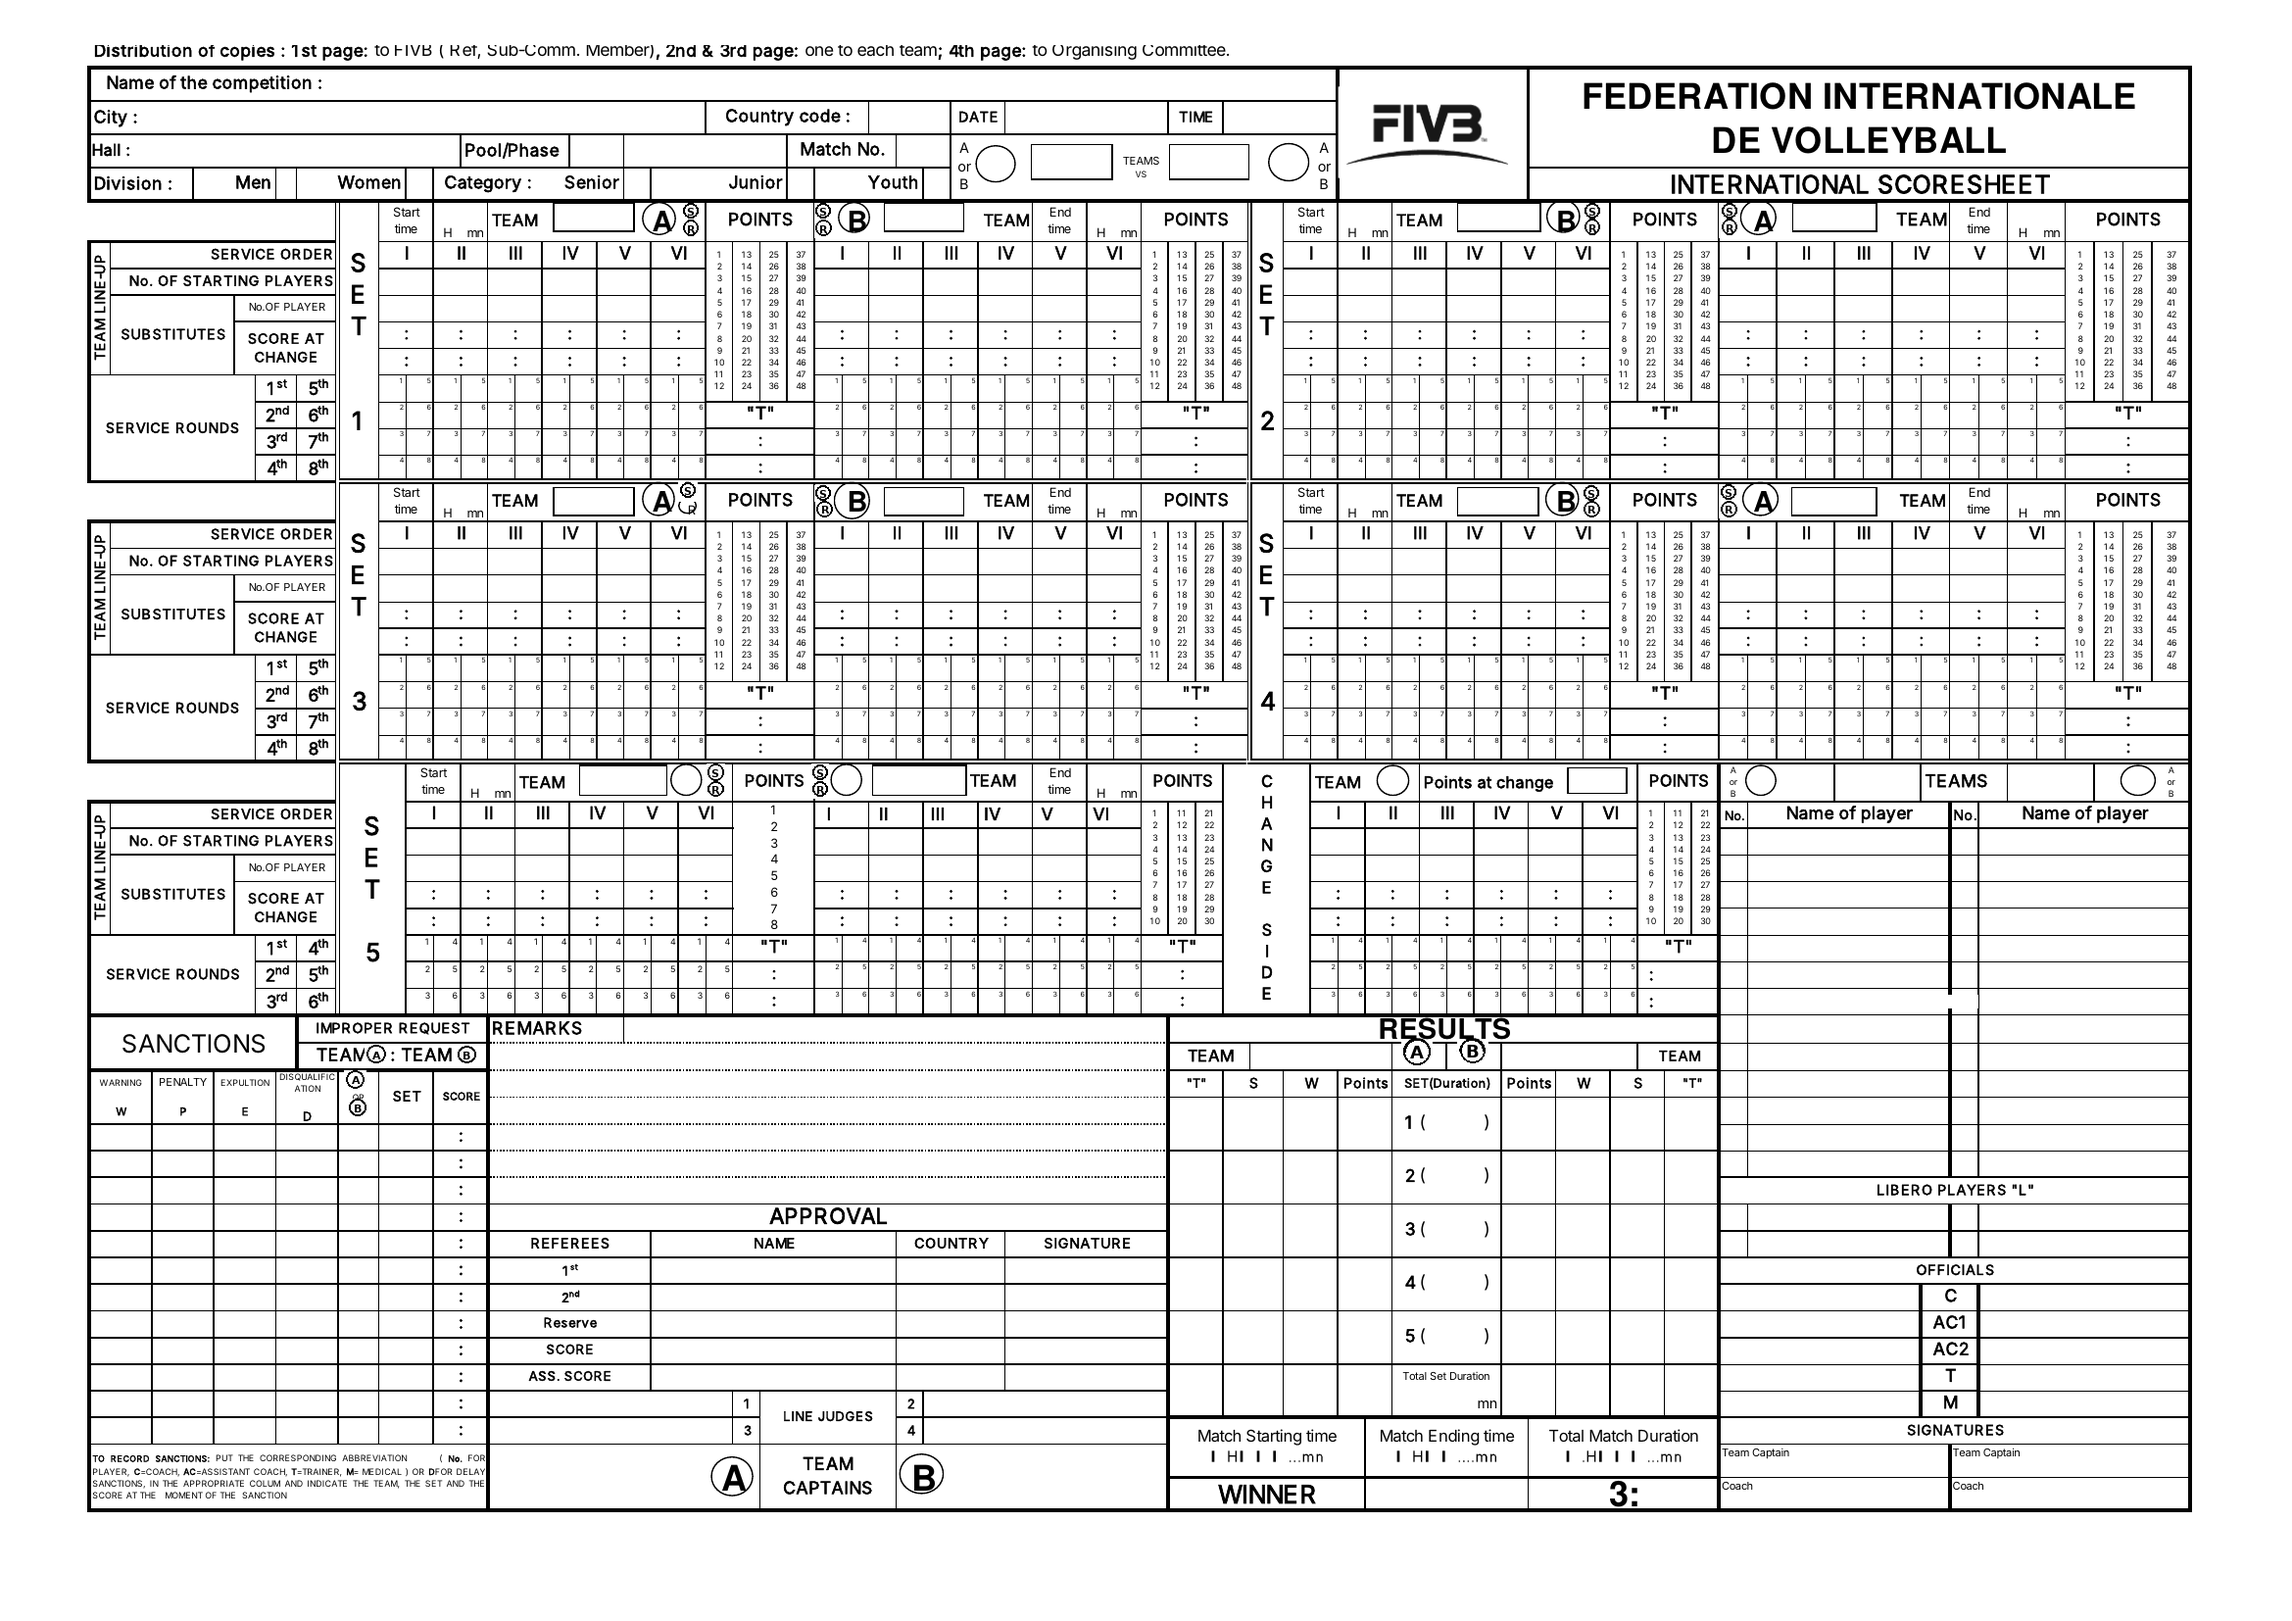
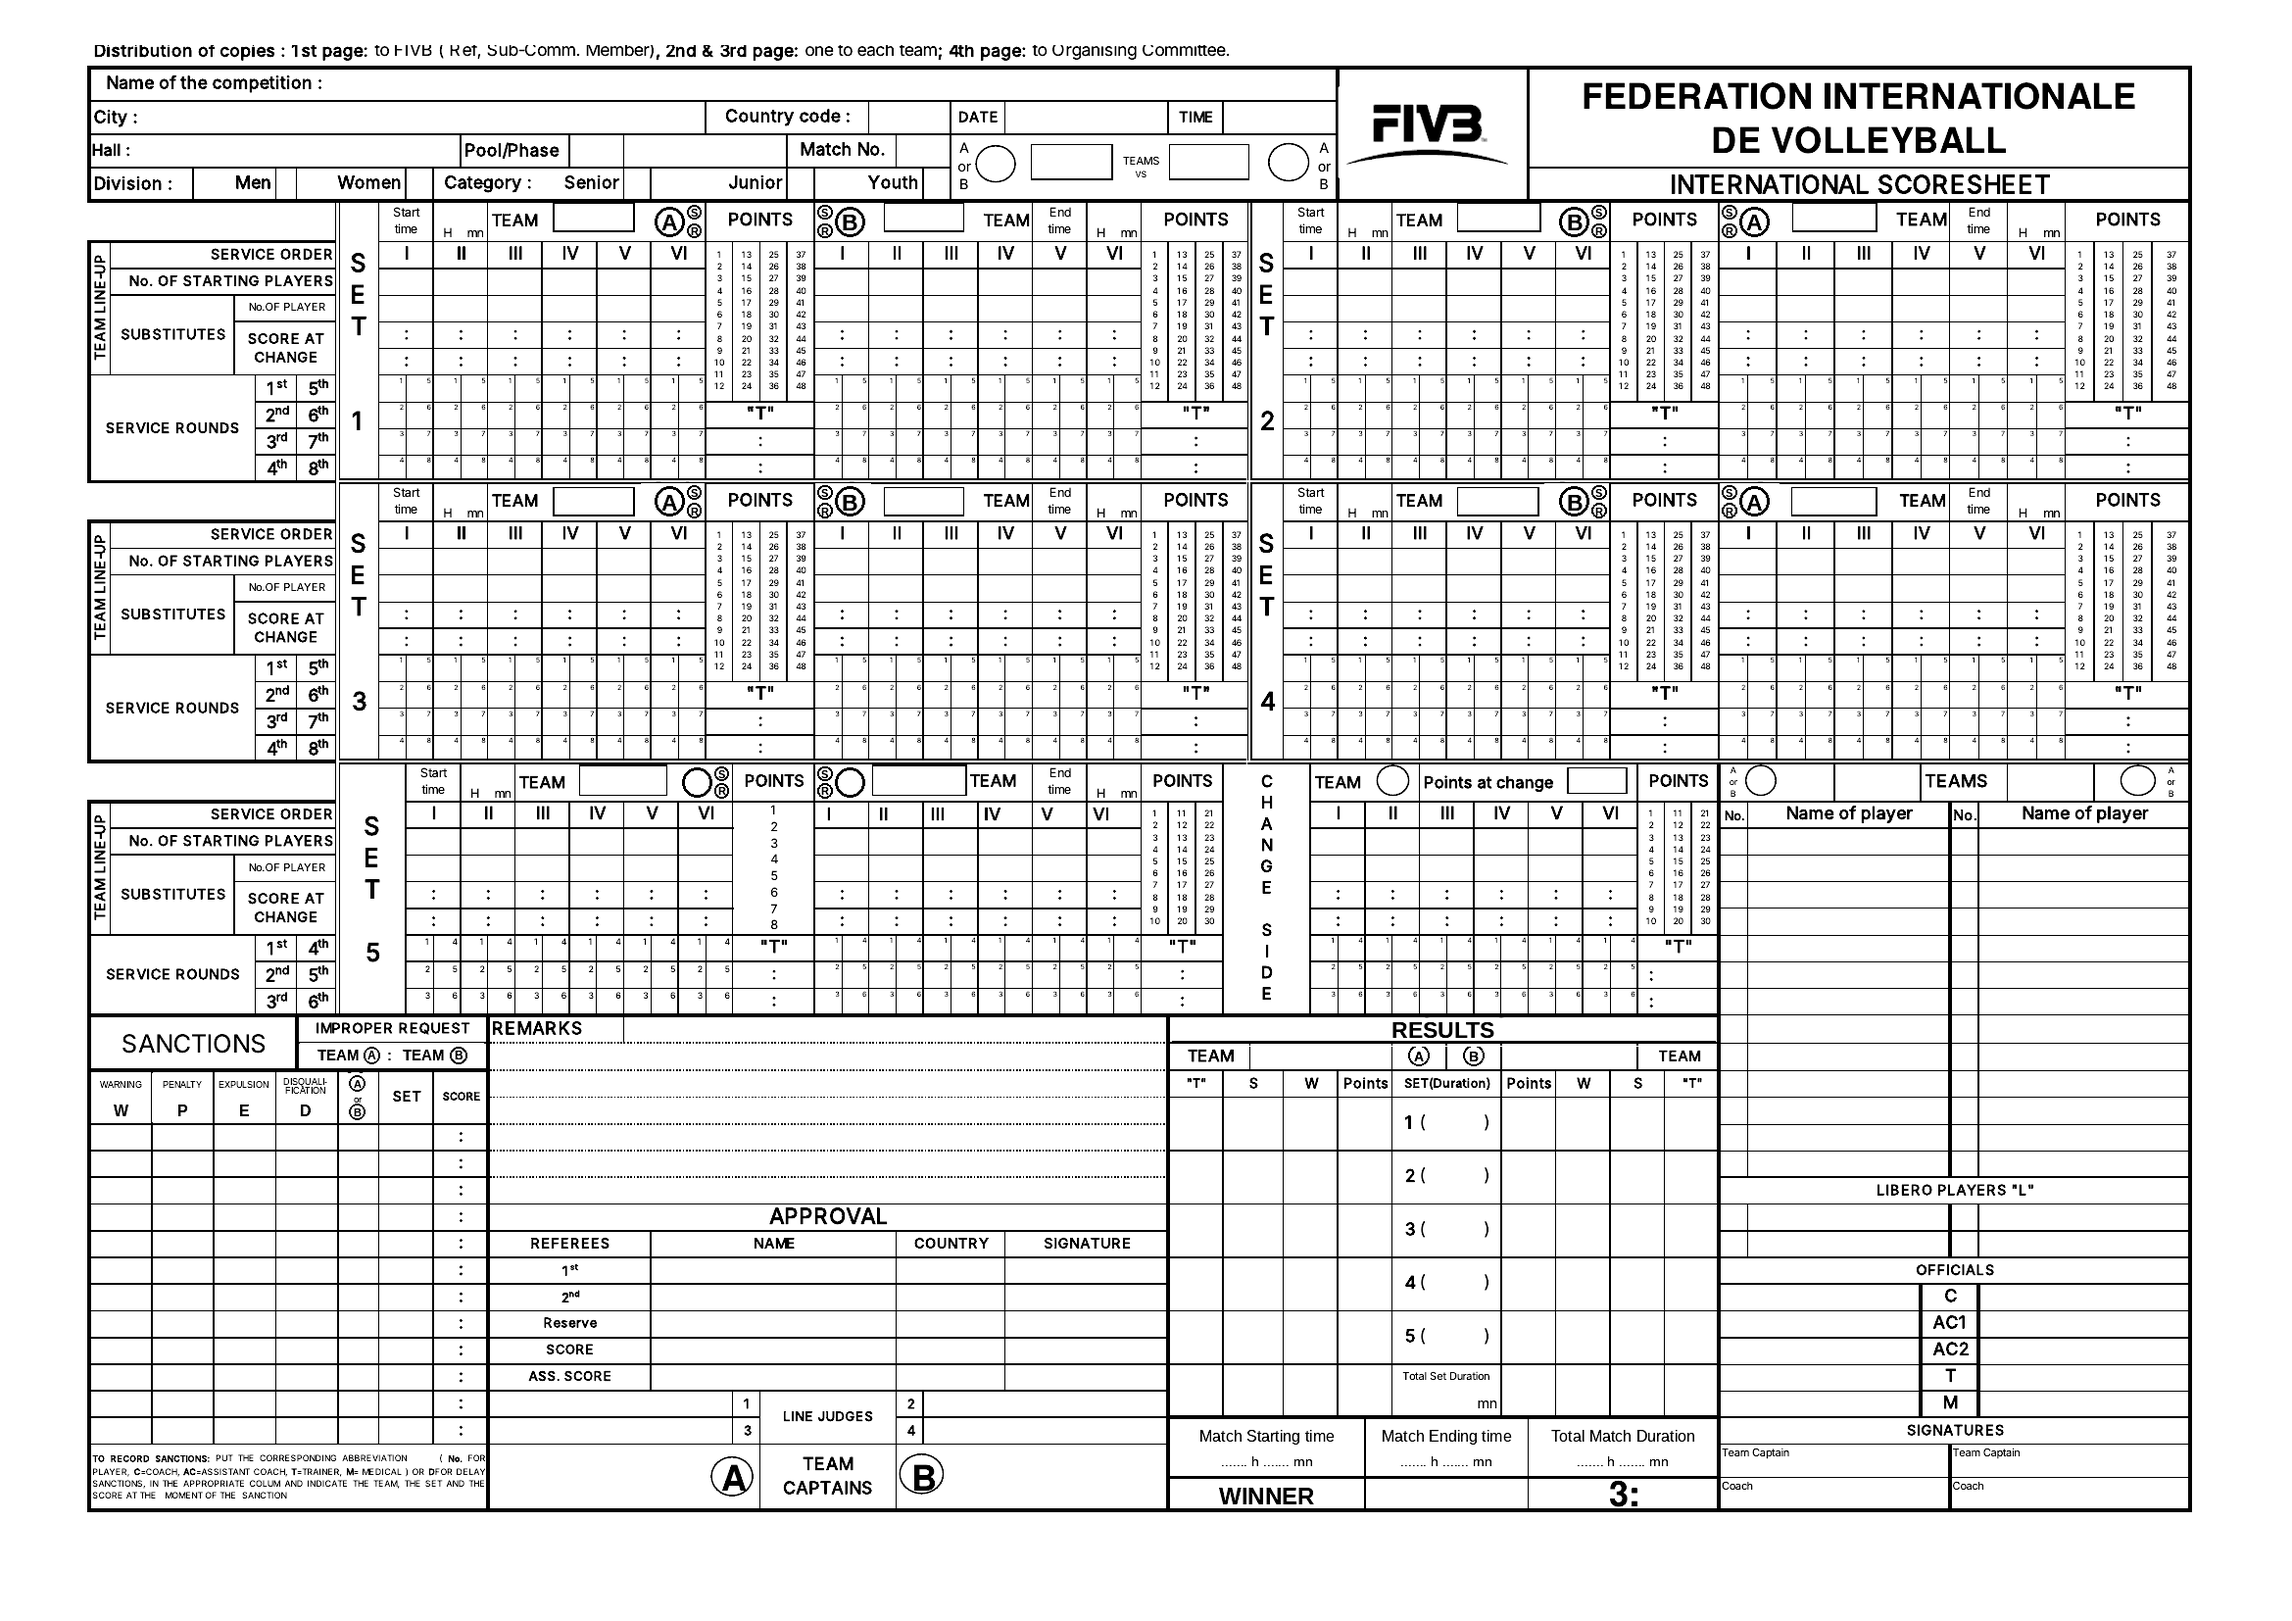
11

diff --git a/js/views/forms.js b/js/views/forms.js
@@ -13,14 +13,33 @@
 
   // ---------------------------------------------------------- penggambar SVG
   function Pen() { this.out = []; }
+  /** ukuran huruf terbesar (<= size, >= 80%) yang membuat semua teks muat di lebar max */
+  function fitSize(list, size, max, bold) {
+    var best = size;
+    list.forEach(function (s) { var w = textWidth(String(s), size, bold); if (w > max - 1) best = Math.min(best, size * (max - 1) / w); });
+    return Math.max(size * 0.8, Math.floor(best * 10) / 10);
+  }
+  var _cv = null;
+  function textWidth(s, size, bold) {
+    try {
+      _cv = _cv || document.createElement('canvas').getContext('2d');
+      _cv.font = (bold ? '700 ' : '400 ') + '100px Arial, Helvetica, sans-serif';
+      return _cv.measureText(s).width * size / 100;
+    } catch (e) { return s.length * size * (bold ? 0.6 : 0.55); }
+  }
   Pen.prototype.t = function (x, y, str, o) {
     if (str === '' || str == null || !x) return;
     o = o || {};
     var size = o.size || 10, anchor = o.align === 'l' ? 'start' : o.align === 'r' ? 'end' : 'middle';
     var s = String(str), extra = '';
     if (o.max) {
-      var est = s.length * size * (o.bold ? 0.6 : 0.55);
-      if (est > o.max) extra = ' textLength="' + o.max + '" lengthAdjust="spacingAndGlyphs"';
+      // ukur lebar teks sesungguhnya; bila kepanjangan kecilkan huruf dulu (maks. 25%), baru dipadatkan
+      var w = textWidth(s, size, o.bold !== false), lim = o.max - 1;
+      if (w > lim) {
+        var ns = Math.max(size * 0.75, size * lim / w);
+        w = w * ns / size; size = Math.round(ns * 10) / 10;
+        if (w > lim) extra = ' textLength="' + lim + '" lengthAdjust="spacingAndGlyphs"';
+      }
     }
     this.out.push('<text x="' + x + '" y="' + y + '" font-size="' + size + '" text-anchor="' + anchor + '" dominant-baseline="central"' +
       (o.bold === false ? '' : ' font-weight="700"') + extra + '>' + xe(s) + '</text>');
@@ -99,7 +118,7 @@
     pen.t(h.city[0], h.city[1], c.city || '', { size: fs, align: 'l', max: h.cityMax });
     pen.t(h.ccode[0], h.ccode[1], c.countryCode || '', { size: fs });
     if (m.date) { var dp = m.date.split('-'); pen.t(h.dateText[0], h.dateText[1], dp[2] + '-' + dp[1] + '-' + dp[0].slice(2), { size: fs }); }
-    pen.t(h.timeText[0], h.timeText[1], m.time || '', { size: fs, max: 40 });
+    pen.t(h.timeText[0], h.timeText[1], m.time || '', { size: fs, max: 38 });
     pen.t(h.hall[0], h.hall[1], c.venue || '', { size: fs, align: 'l', max: h.hallMax });
     pen.t(h.pool[0], h.pool[1], m.pool || '', { size: fs, max: 56 });
     pen.t(h.matchNo[0], h.matchNo[1], m.no || '', { size: fs + 1 });
@@ -135,23 +154,31 @@
       pen.t(ro.codeL[0], ro.codeL[1], ctx.code(A), { size: rf + 2, max: 50 });
       pen.t(ro.codeR[0], ro.codeR[1], ctx.code(B), { size: rf + 2, max: 50 });
     }
+    // satu ukuran huruf seragam untuk semua nama (dan semua ofisial) agar rapi
+    var allP = [], allO = [];
+    [A, B].forEach(function (id) {
+      var t = ctx.team[id] || {};
+      (t.players || []).forEach(function (p) { allP.push(p.name + (p.captain ? ' ©' : '')); });
+      var o = t.officials || {}; ['C', 'AC1', 'AC2', 'T', 'M'].forEach(function (k) { if (o[k]) allO.push(o[k]); });
+    });
+    var rfN = fitSize(allP, rf, ro.nameMax, true), rfO = fitSize(allO, rf - 0.5, ro.offMax, false);
     [[A, ro.noL, ro.nameL, ro.offL, 'r'], [B, ro.noR, ro.nameR, ro.offR, 'l']].forEach(function (cfg) {
       var t = ctx.team[cfg[0]] || {}, ps = t.players || [];
       var reg = ps.filter(function (p) { return !p.libero; }), lib = ps.filter(function (p) { return p.libero; });
       reg.slice(0, ro.rows.length - 1).forEach(function (p, i) {
         var y = (ro.rows[i] + ro.rows[i + 1]) / 2;
         pen.t(cfg[1], y, p.no, { size: rf + 0.5 });
-        pen.t(cfg[2], y, p.name + (p.captain ? ' ©' : ''), { size: rf, align: 'l', max: ro.nameMax });
+        pen.t(cfg[2], y, p.name + (p.captain ? ' ©' : ''), { size: rfN, align: 'l', max: ro.nameMax });
       });
       lib.slice(0, ro.lib.length - 1).forEach(function (p, i) {
         var y = (ro.lib[i] + ro.lib[i + 1]) / 2;
         pen.t(cfg[1], y, p.no, { size: rf + 0.5 });
-        pen.t(cfg[2], y, p.name + (p.captain ? ' ©' : ''), { size: rf, align: 'l', max: ro.nameMax });
+        pen.t(cfg[2], y, p.name + (p.captain ? ' ©' : ''), { size: rfN, align: 'l', max: ro.nameMax });
       });
       var off = t.officials || {};
       ['C', 'AC1', 'AC2', 'T', 'M'].forEach(function (k, i) {
         var y = (ro.off[i] + ro.off[i + 1]) / 2;
-        pen.t(cfg[3], y, off[k] || '', { size: rf - 0.5, align: cfg[4], bold: false, max: ro.offMax });
+        pen.t(cfg[3], y, off[k] || '', { size: rfO, align: cfg[4], bold: false, max: ro.offMax });
       });
     });
     return page(L, pen, 'a4');

diff --git a/sw.js b/sw.js
@@ -1,6 +1,6 @@
 /* Service worker: membuat aplikasi tetap bisa dibuka tanpa internet.
  * Naikkan nomor VERSION setiap kali ada perubahan file agar perangkat mengambil versi baru. */
-var VERSION = 'v3.1.0';
+var VERSION = 'v3.2.0';
 var CACHE = 'scoresheet-' + VERSION;
 var FILES = [
   './', 'index.html', 'manifest.webmanifest',
